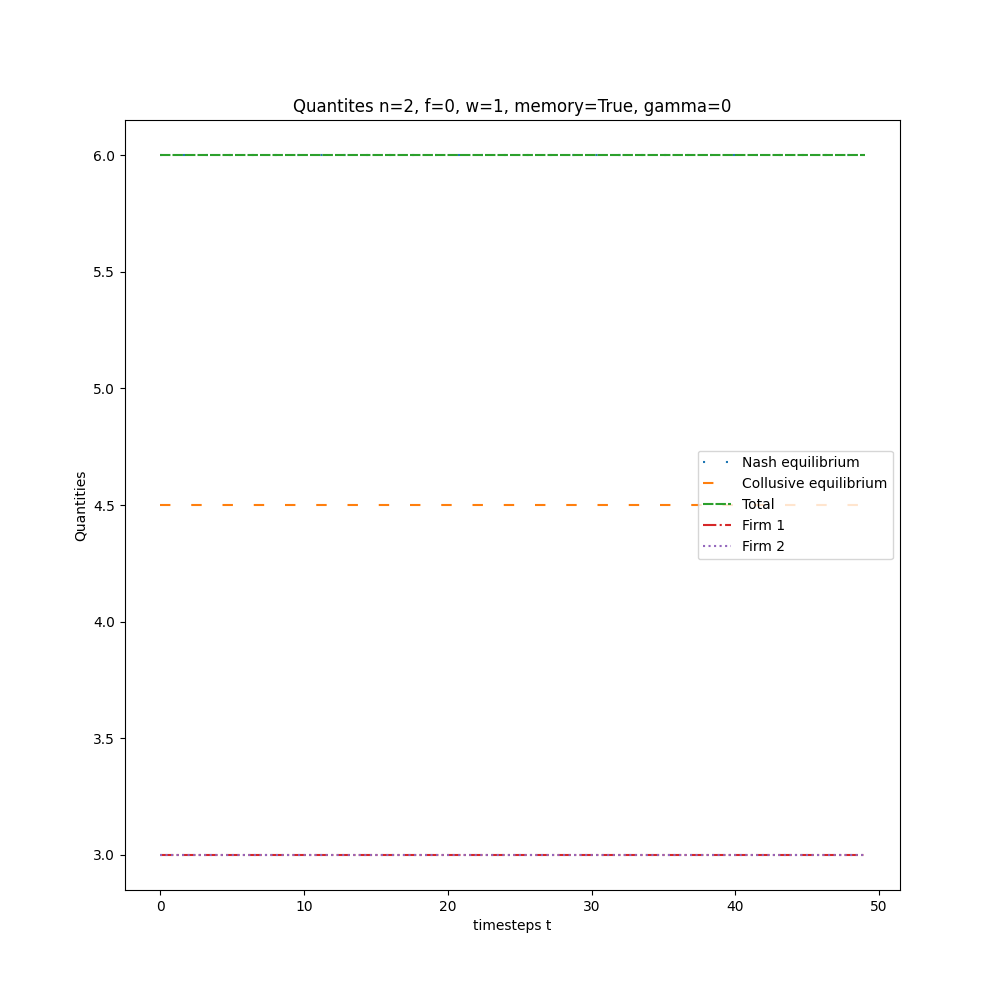
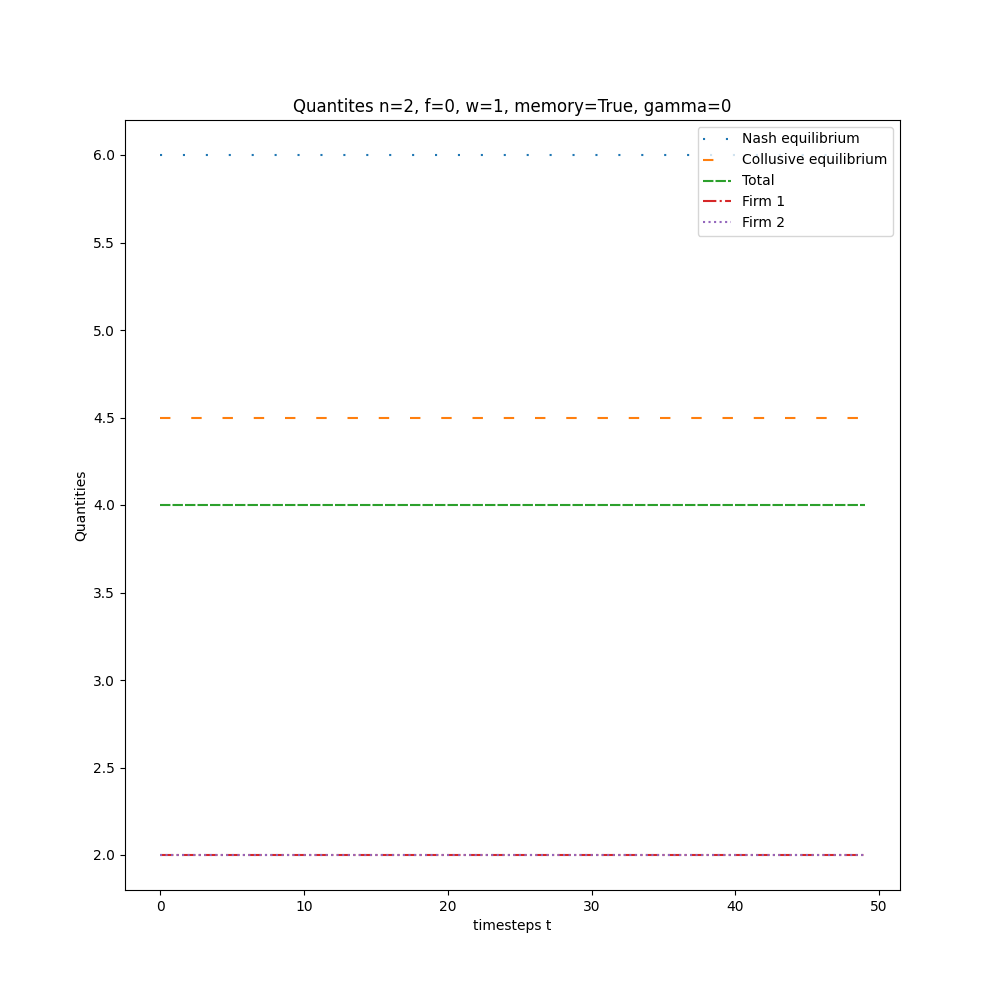
fixed costs corrected

diff --git a/agent.py b/agent.py
@@ -56,7 +56,7 @@ class Agent:
         return probs
 
     def get_profit(self,price):
-        return price*self.q - self.w*self.q - self.f
+        return price*self.q - self.w*self.q - self.f*(self.q>0)
 
     def select_action(self,beta):
         

diff --git a/test.py b/test.py
@@ -52,7 +52,6 @@ for w in ws:
 
 sim.plot_tables(data,ws,fs,ns,gammemos)
 
-
 '''
 
 ####################### Paper parameter settings #######################################
